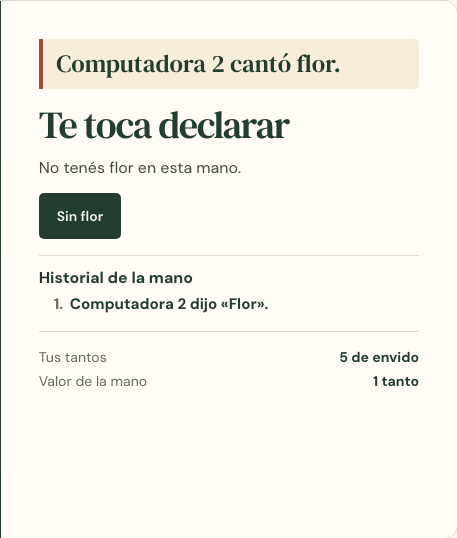
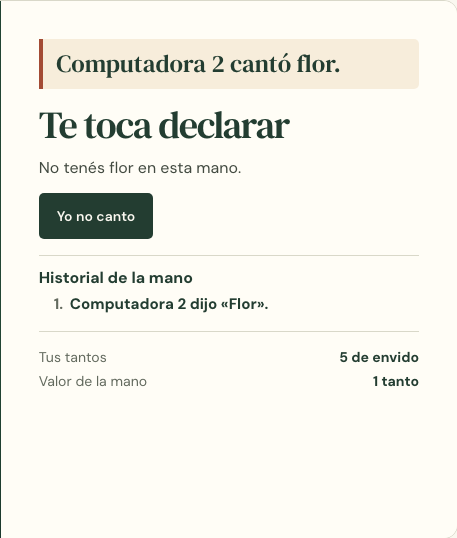
Decir «Yo no canto» al pasar (#194)
* Mostrar el canto de flor y el historial junto a la jugada

* Verificar el aviso de flor en escritorio y móvil

* Usar «Yo no canto» como respuesta al pasar

* Distinguir el anuncio de flor del aviso de reconexión en la prueba

* Mostrar la respuesta de la mano en escritorio y móvil

---------

Changed region(s): [[0.1225, 0.3569, 0.337, 0.4461]]

diff --git a/src/components/aprendizaje/ejercicio.ts b/src/components/aprendizaje/ejercicio.ts
@@ -2,6 +2,7 @@ import type { Ejemplo, Tema } from "../../aprendizaje/lecciones";
 import type { Sesion } from "../../aprendizaje/sesion";
 import type { Respuesta } from "../../aprendizaje/tipos";
 import { explicarSituacion } from "../../aprendizaje/generadores/evaluacion";
+import { canto } from "../../lib/cantos";
 import type { CardId } from "../../motor/cartas";
 import { actualizarMuestra } from "../muestra";
 import { mostrarCarta } from "./cartas";
@@ -152,7 +153,7 @@ export function montarEjercicio(base: string) {
         if (paso?.tipo === "decidir-flor") {
           instruccion.textContent = "Mirá los palos y las piezas antes de decidir.";
           opciones.append(boton("Tengo flor", () => responder({ tipo: paso.tipo, hayFlor: true }), "ap-opcion"),
-            boton("Sin flor", () => responder({ tipo: paso.tipo, hayFlor: false }), "ap-opcion"));
+            boton(canto["paso-flor"], () => responder({ tipo: paso.tipo, hayFlor: false }), "ap-opcion"));
         } else if (paso?.tipo === "responder-total") {
           instruccion.textContent = "Sumá los tantos de las cartas que elegiste.";
           cuenta.hidden = false;

diff --git a/src/components/mesa/mesa.ts b/src/components/mesa/mesa.ts
@@ -1,6 +1,7 @@
 import { crearMesaGuiada, type VistaGuiada } from "../../aprendizaje/mano-guiada";
 import { comparar, temas } from "../../aprendizaje/lecciones";
 import type { Respuesta } from "../../aprendizaje/tipos";
+import { canto } from "../../lib/cantos";
 import type { CardId } from "../../motor/cartas";
 import { mostrarCarta } from "../aprendizaje/cartas";
 import { asientos, nombre, pareja, resultadoMano, resultadoVuelta, situacionDeJuego, ultimaJugada } from "./relato";
@@ -91,7 +92,7 @@ export function montarMesa() {
       pregunta.textContent = paso.consigna;
       if (paso.tipo === "decidir-flor") {
         guia.textContent = "Mirá tus tres cartas y el palo de la muestra.";
-        for (const hayFlor of [true, false]) decisiones.append(boton(hayFlor ? "Tengo flor" : "Sin flor",
+        for (const hayFlor of [true, false]) decisiones.append(boton(hayFlor ? "Tengo flor" : canto["paso-flor"],
           () => responder({ tipo: paso.tipo, hayFlor }), "ap-opcion"));
       } else if (paso.tipo === "elegir-cartas") {
         guia.textContent = "Marcá las cartas que vas a contar.";

diff --git a/src/components/jugar/Senas.tsx b/src/components/jugar/Senas.tsx
@@ -1,5 +1,6 @@
 import { useState } from "react";
 import { signals, type Signal } from "../../../training/contracts/index";
+import { canto } from "../../lib/cantos";
 import { cartasPorId } from "../../lib/cartas";
 import juego from "../../data/juego.json";
 import type { Voz } from "./Voz";
@@ -40,7 +41,7 @@ export function MesaConSenas({ base, mesa, partida, bloqueada, mostrandoCartas, 
           const {action} = turn;
           const gesto = menu.find(s => s.id === turn.signal)!.texto;
           const jugada = action.tipo === "carta" ? cartasPorId.get(action.carta)!.nombre
-            : action.tipo === "paso-flor" ? "Sin flor" : action.tipo.replaceAll("-", " ");
+            : action.tipo === "paso-flor" ? canto[action.tipo] : action.tipo.replaceAll("-", " ");
           return <li key={i}><strong>{mesa.asientos[action.asiento].nombre}</strong> · {gesto} · {jugada}</li>;
         })}</ol>
       </section>

diff --git a/src/lib/cantos.ts b/src/lib/cantos.ts
@@ -12,6 +12,6 @@ export const canto = {
   "contraflor-al-resto": "Contraflor al resto",
   quiero: "Quiero",
   "no-quiero": "No quiero",
-  "paso-flor": "Sin flor",
+  "paso-flor": "Yo no canto",
   mazo: "Irse al mazo",
 } satisfies Record<Exclude<TipoAccionOnline, "carta">, string>;

diff --git a/docs/aprendizaje/README.md b/docs/aprendizaje/README.md
@@ -51,7 +51,7 @@ La ruta publicada ofrece cinco temas abiertos. El recorrido inicial empieza con 
 Para agregar una lección centrada en una flor aparente:
 
 1. Partí de `reconocerFlor` en el [catálogo de lecciones](../../src/aprendizaje/lecciones/index.ts). Dale un `id` propio, conservá la habilidad `reconocer-flor` y elegí la familia `flor-aparente`. En esa familia una pieza acompaña a dos cartas de palos distintos. El [generador](../../src/aprendizaje/generadores/index.ts) prepara las manos y el [evaluador](../../src/aprendizaje/generadores/evaluacion.ts) corrige la decisión y explica los errores.
-2. Escribí el título, el resumen y la orientación. En `ejemplos`, prepará dos manos de `uso: "apertura"` y una de `uso: "repaso"`. Dale a cada una un ID estable dentro del tema, una muestra, sus cartas y una explicación específica. Por ejemplo, con muestra de 6 de bastos, explicá por qué el 4 de bastos, el 7 de copas y el as de espadas no forman flor. Para los tantos, la pantalla muestra los sumandos del motor. Conservá el capítulo `flor` y el paso `decidir-flor`, que ya muestra «Tengo flor» y «Sin flor». Para una lección de cuenta se pueden combinar `elegir-cartas` y `responder-total`.
+2. Escribí el título, el resumen y la orientación. En `ejemplos`, prepará dos manos de `uso: "apertura"` y una de `uso: "repaso"`. Dale a cada una un ID estable dentro del tema, una muestra, sus cartas y una explicación específica. Por ejemplo, con muestra de 6 de bastos, explicá por qué el 4 de bastos, el 7 de copas y el as de espadas no forman flor. Para los tantos, la pantalla muestra los sumandos del motor. Conservá el capítulo `flor` y el paso `decidir-flor`, que ya muestra «Tengo flor» y «Yo no canto». Para una lección de cuenta se pueden combinar `elegir-cartas` y `responder-total`.
 3. Agregá la definición a `temas`. La lista y la práctica por tema leen ese catálogo. La lectura rota por ID de tema. Al elegirlo o tocar **Ver otro ejemplo** aparecen las manos pendientes del ciclo. Recargar o volver con el historial recupera el ejemplo de esa entrada. **Ir a practicar** abre una mano que excluye los ejemplos del tema. Las lecciones de una misma habilidad comparten su progreso de práctica. La práctica mixta elige por habilidad y usa la primera definición de esa habilidad.
 4. Comprobá cada apertura, el ciclo completo, las respuestas según el motor y una práctica distinta de los tres ejemplos. Probá un error seguido de pista. Hay un [ejemplo ejecutable de esta ampliación](../../tests/unit/lecciones.test.ts) y [pruebas de los controles en escritorio y móvil](../../tests/aprender.spec.mjs). Ejecutá `npm run check` para comprobar ambos montajes del sitio.
 
